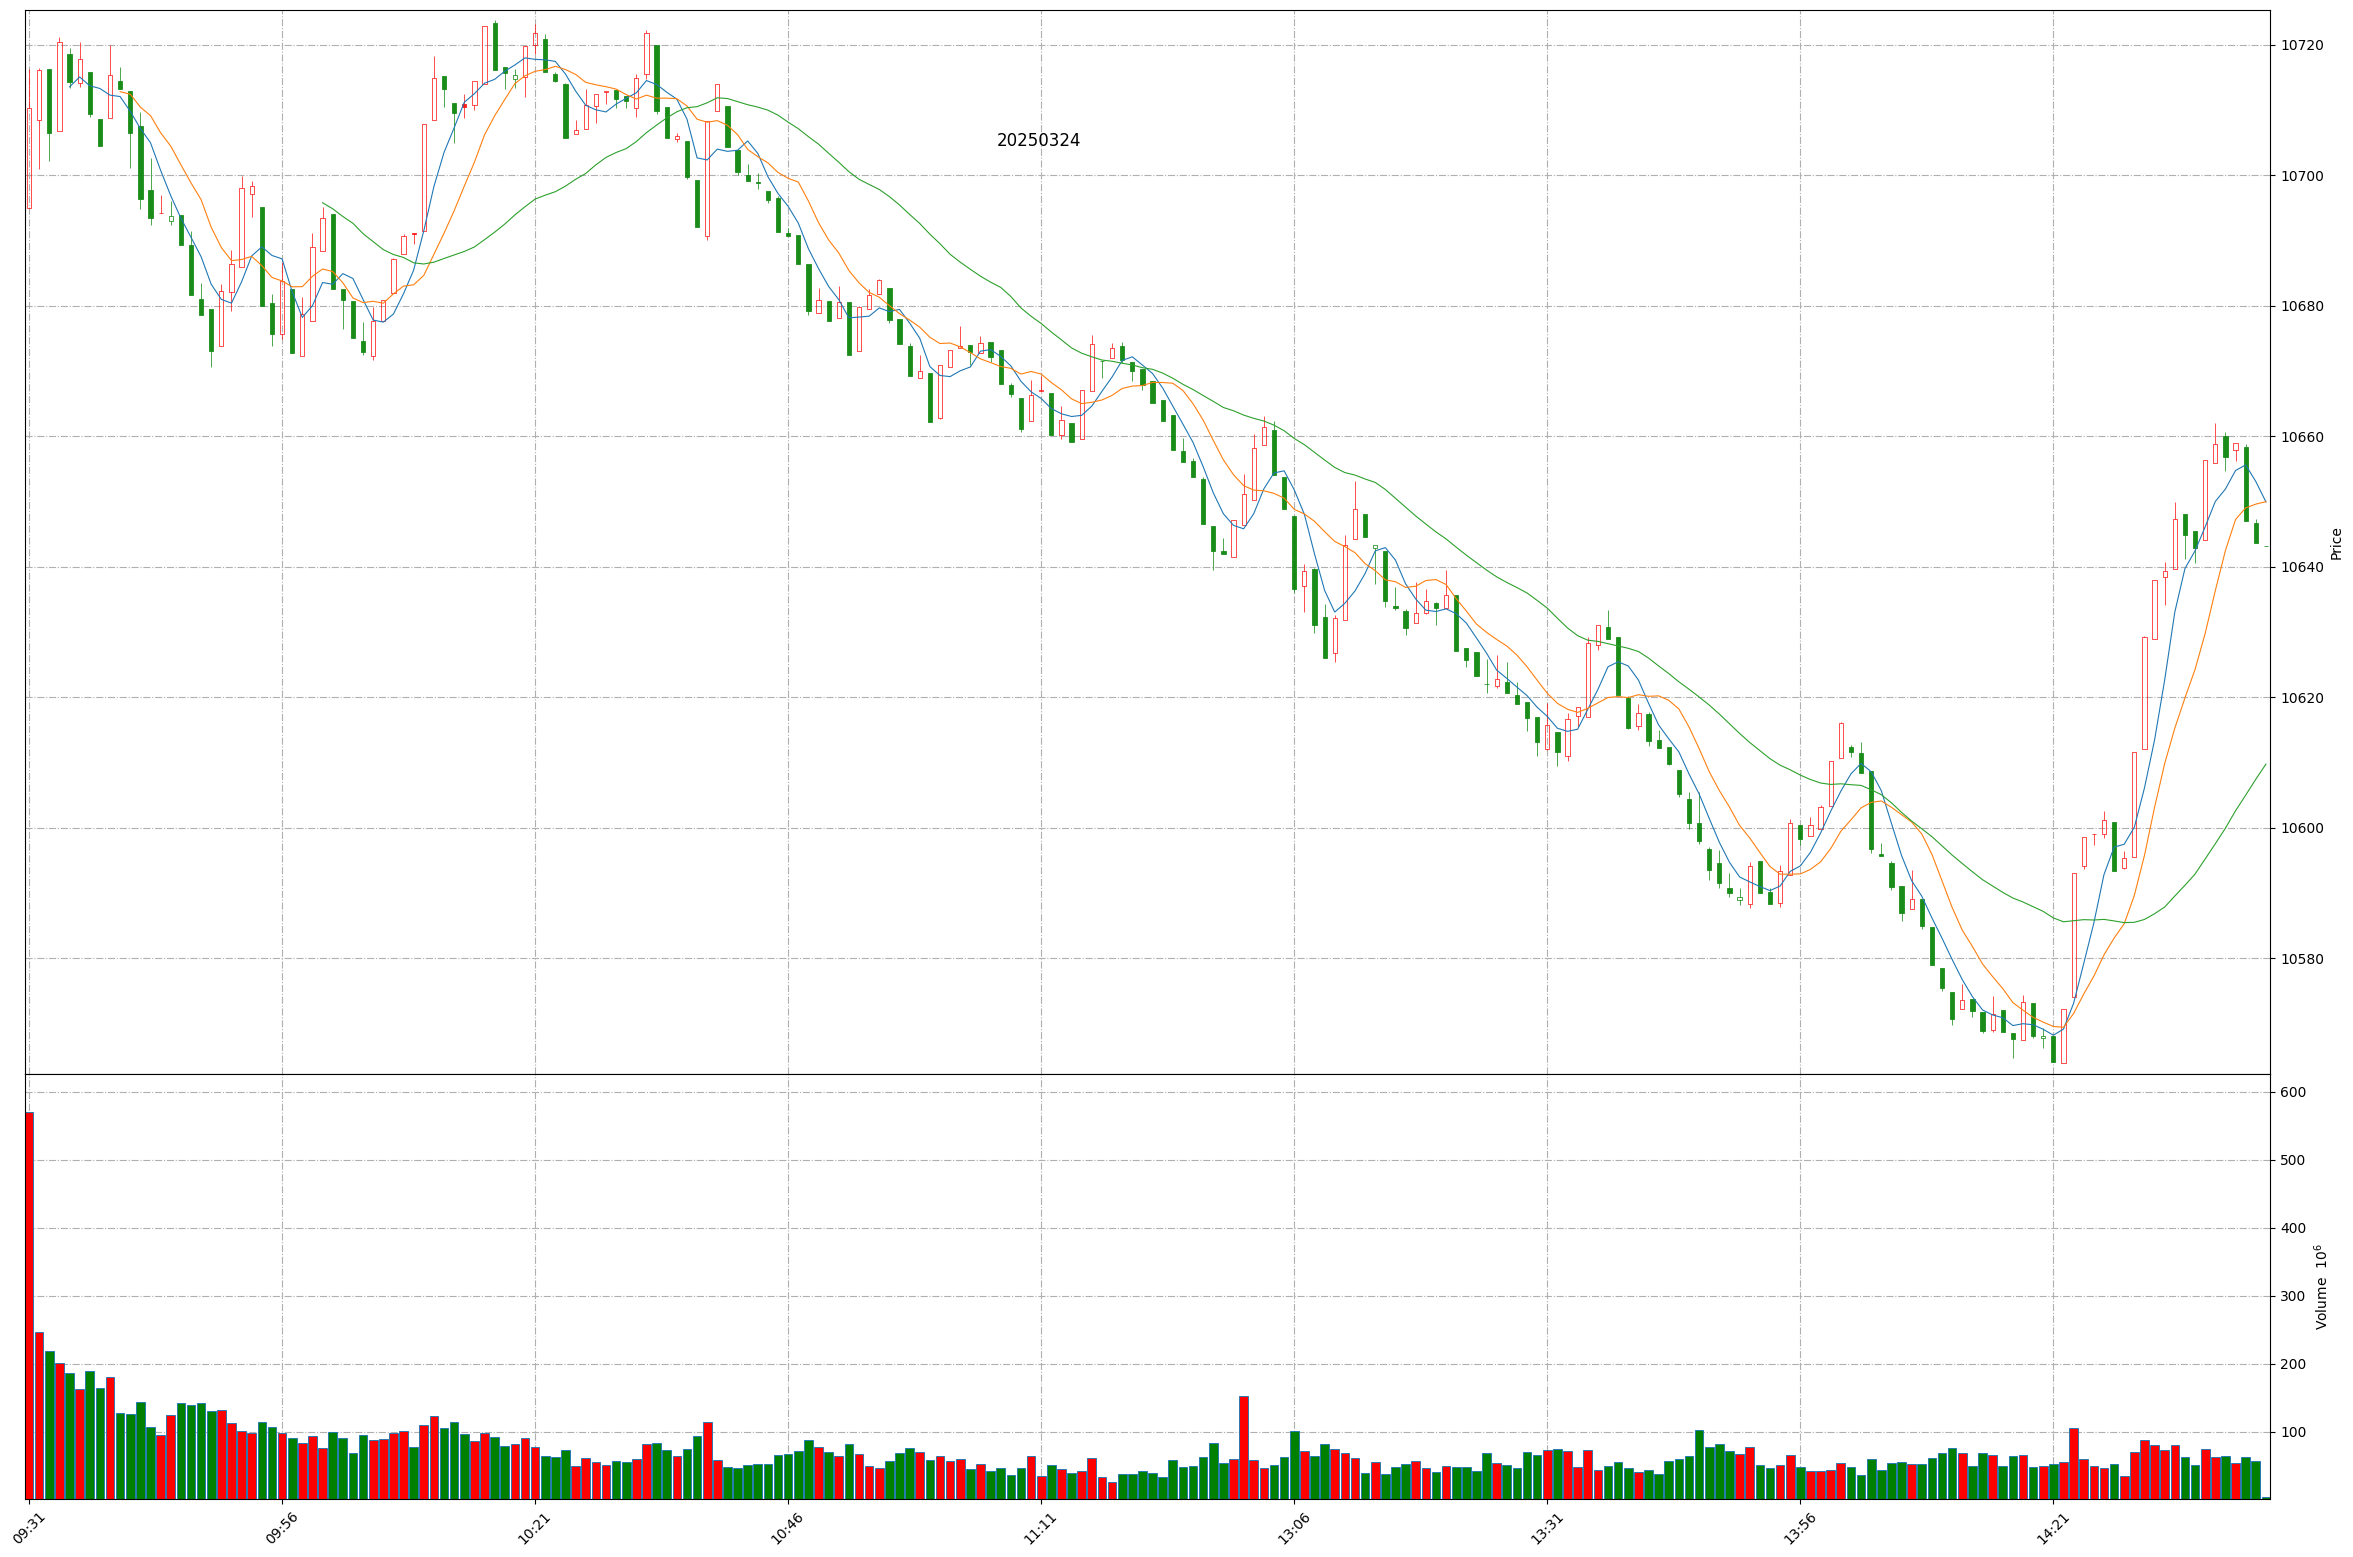
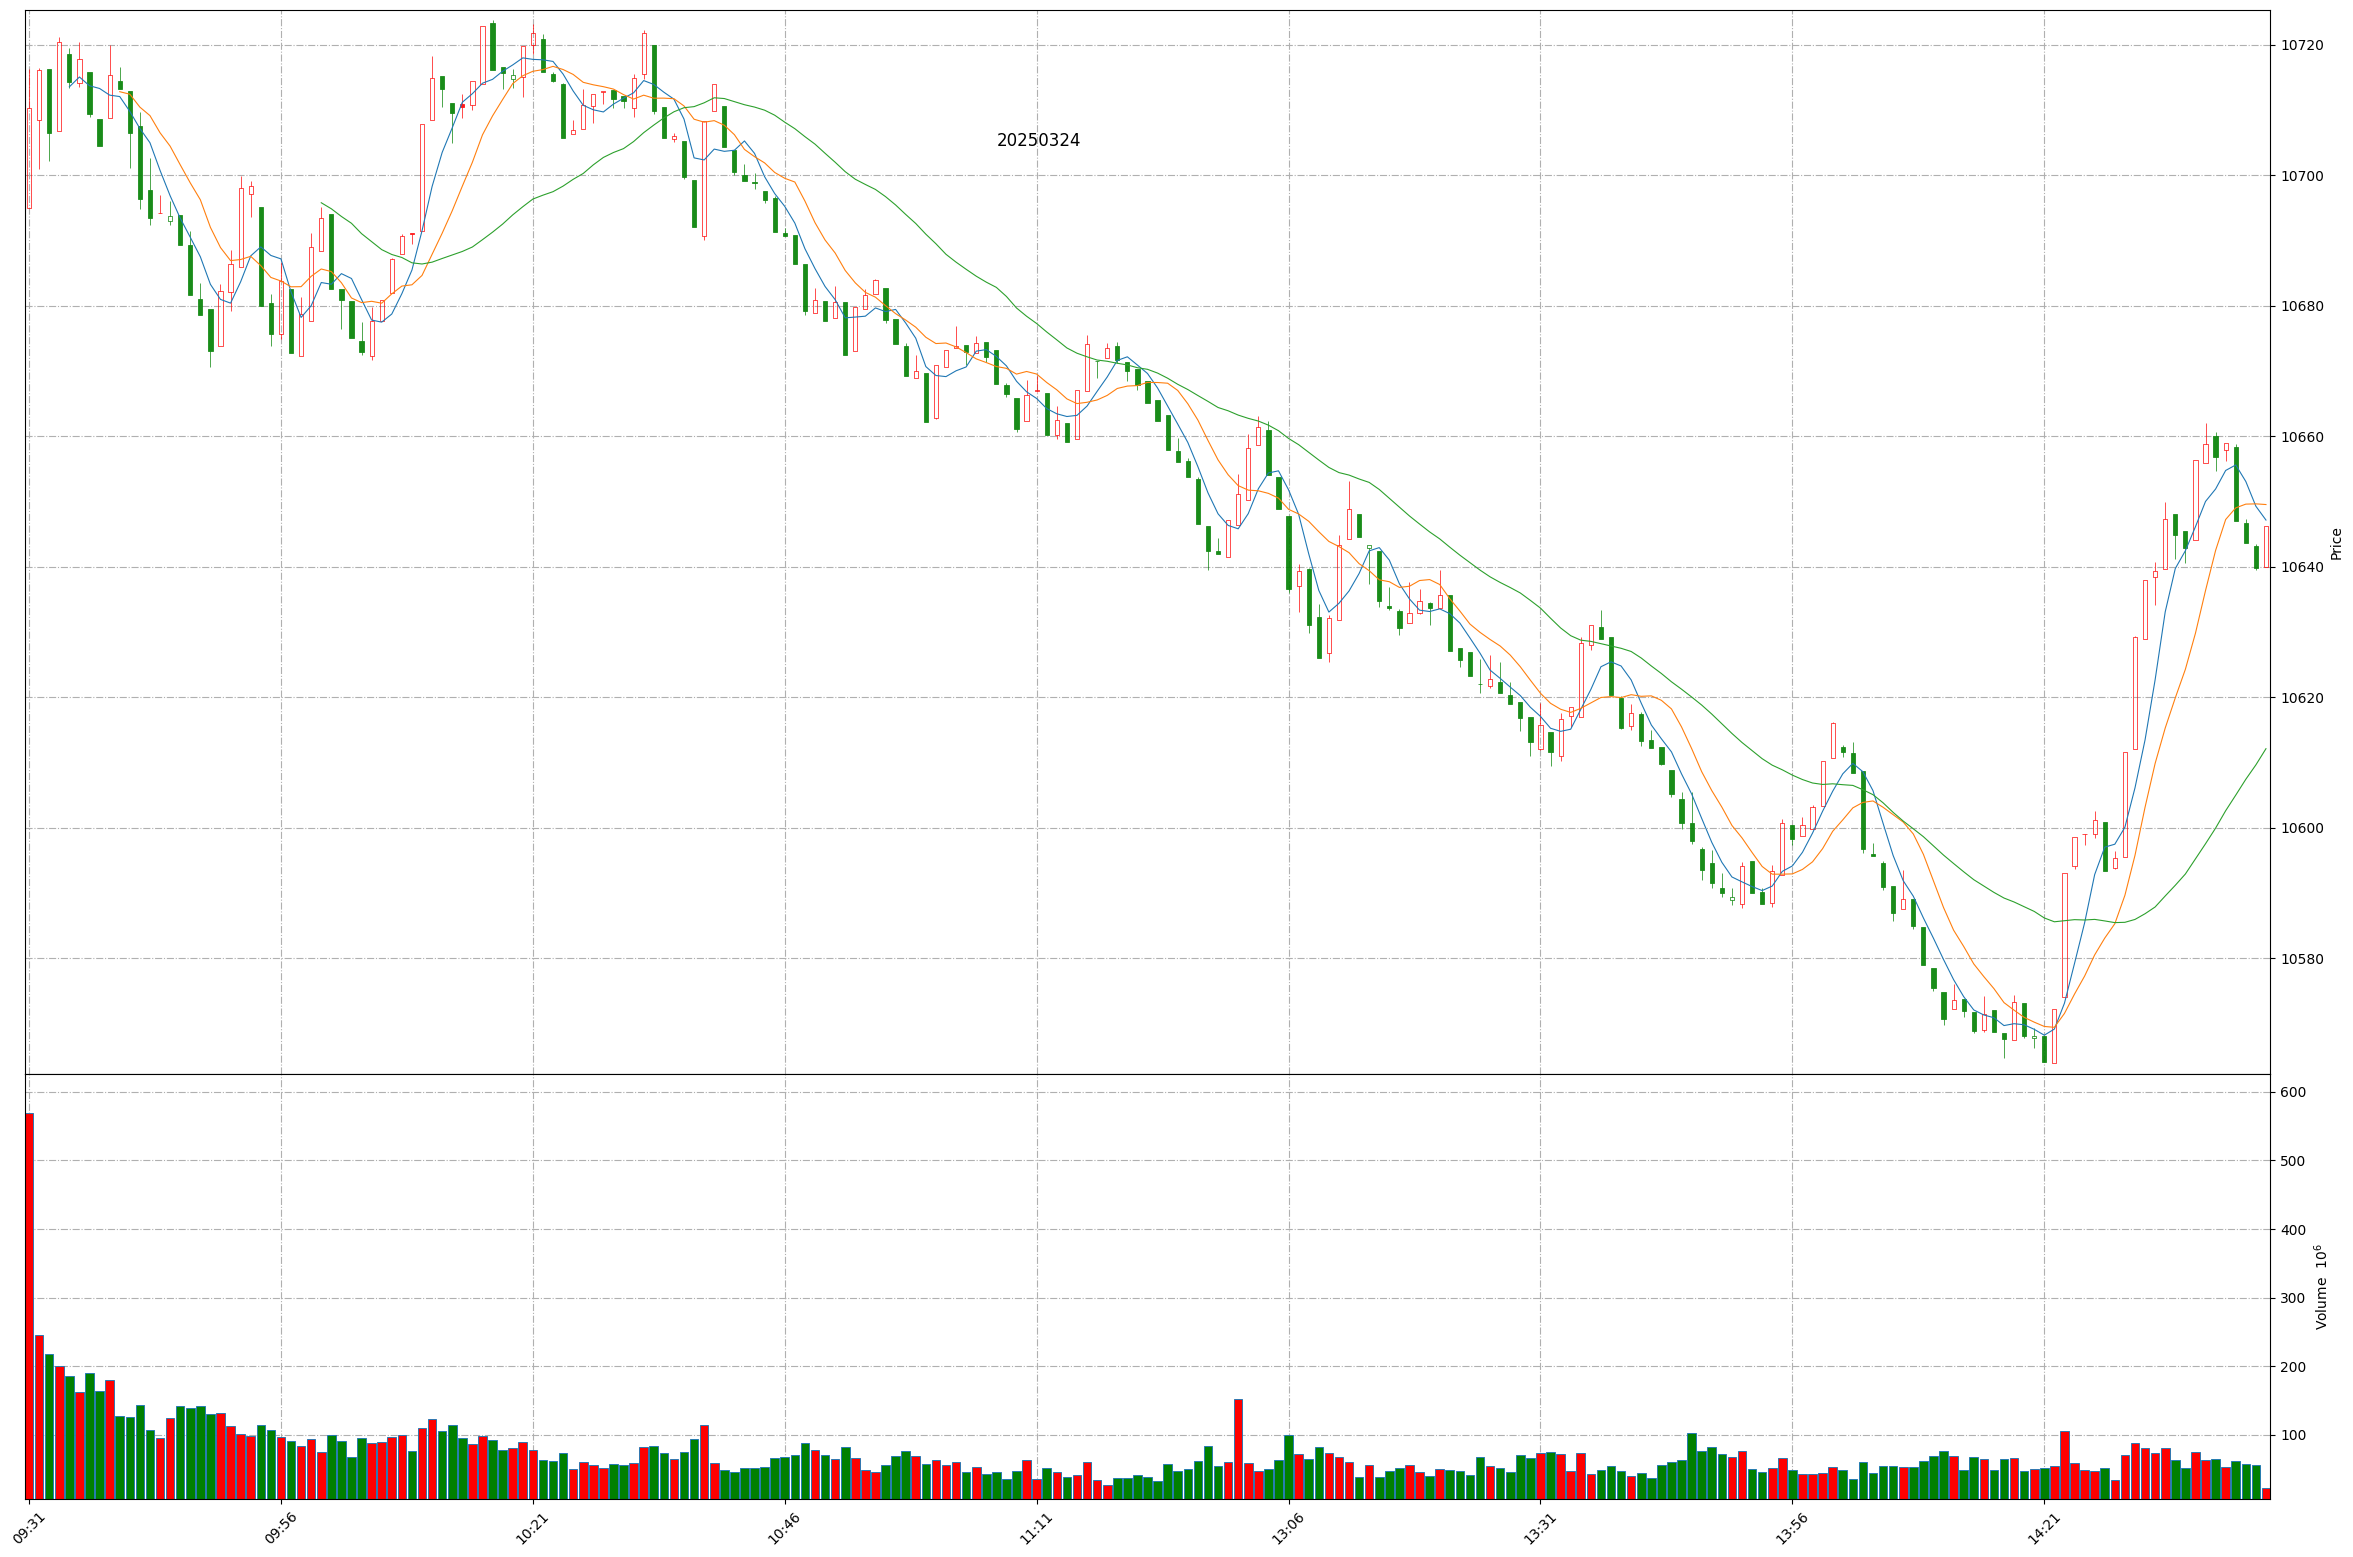
Github action update at 2025-03-24 14:42:37.

diff --git a/README.md b/README.md
@@ -1,11 +1,11 @@
 
 # Daily-A-share-market-quotes 每日 A 股指数（5min 更新）- 20250324
 
-### 上证指数 20250324 14:41
+### 上证指数 20250324 14:42
 ![](./fig/2025/3/20250324-sh000001.png)
 
-### 深证成指 20250324 14:41
+### 深证成指 20250324 14:42
 ![](./fig/2025/3/20250324-sz399001.png)
 
-### 北证50 20250324 14:41
+### 北证50 20250324 14:42
 ![](./fig/2025/3/20250324-bj899050.png)
